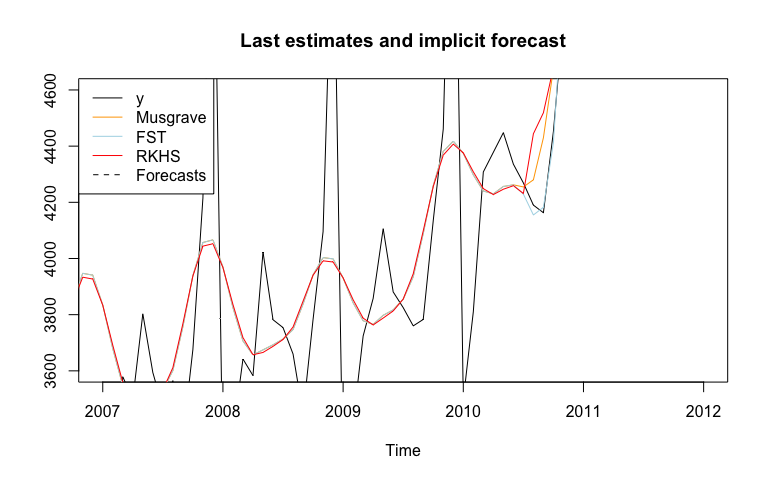
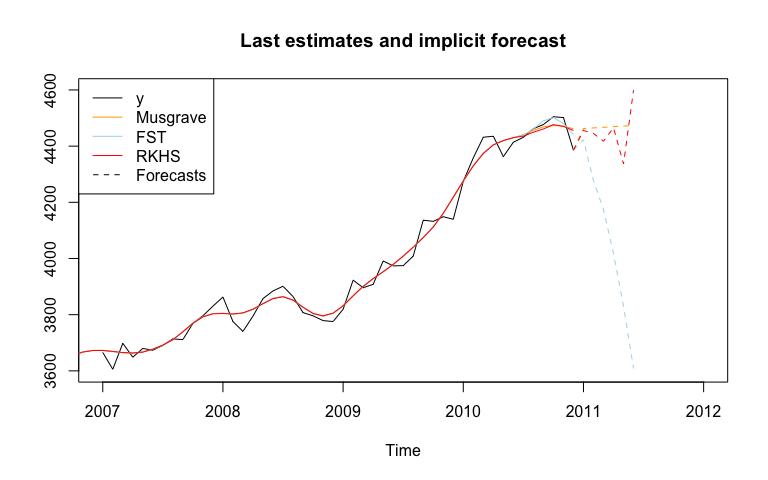
keep retailsa (SA data <> rjd3toolkit)

diff --git a/README.md b/README.md
@@ -42,7 +42,7 @@ boundaries.
 
 ``` r
 library(rjd3filters)
-y <- window(rjd3toolkit::retail$AllOtherGenMerchandiseStores,start = 2000)
+y <- window(retailsa$AllOtherGenMerchandiseStores,start = 2000)
 musgrave <- lp_filter(horizon = 6, kernel = "Henderson",endpoints = "LC")
 
 # we put a large weight on the timeliness criteria
